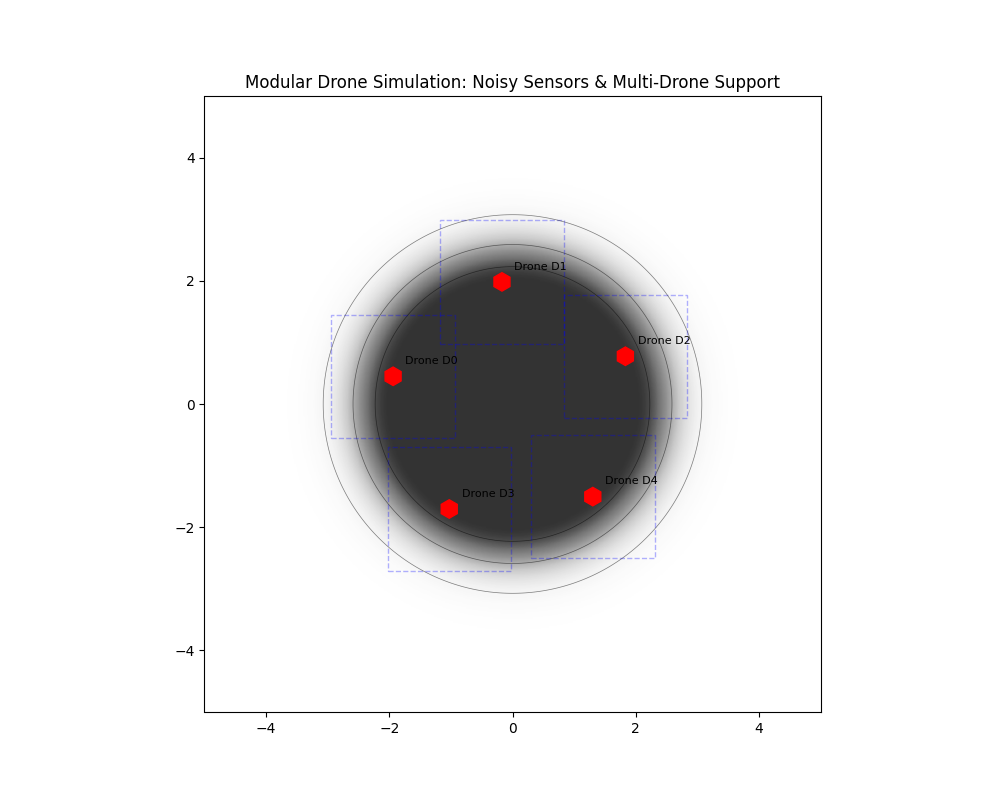
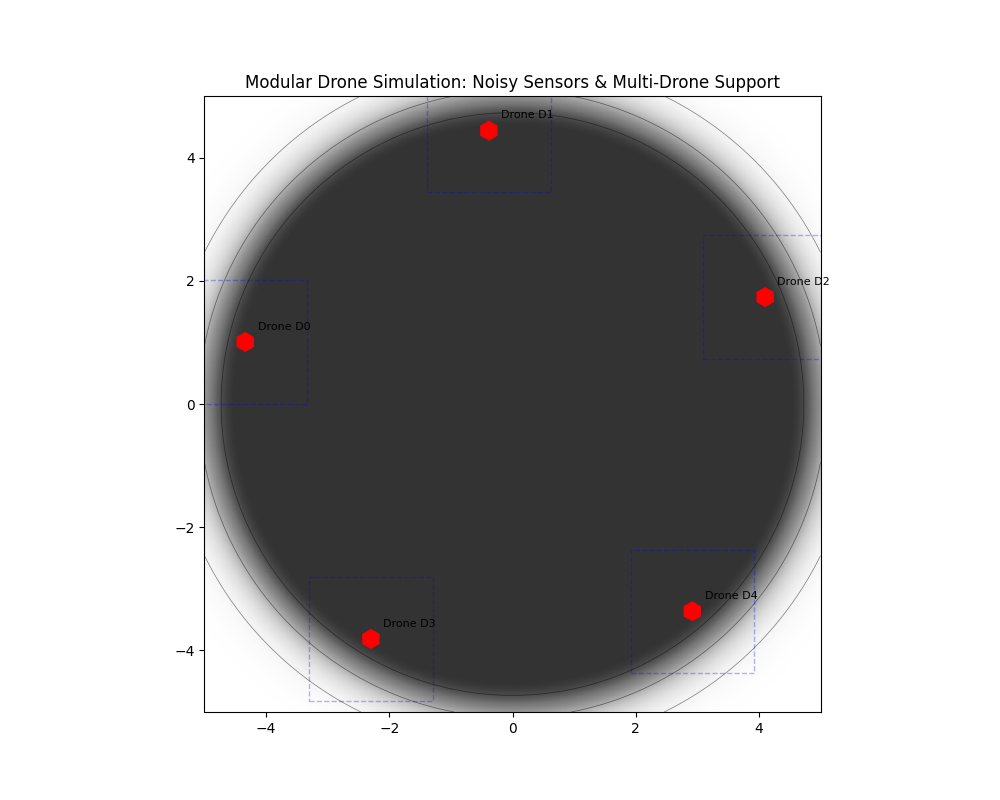
Salvataggio iniziale: dynamic circle con voronoi e control law

diff --git a/main.py b/main.py
@@ -10,13 +10,14 @@ from simulation_engine import SimulationEngine
 from visualization import Visualizer
 
 
-def run_multi_drone_simulation(visualize=False, max_frames=5000, seed=42, show_voronoi=False):
+def run_multi_drone_simulation(visualize=False, max_frames=5000, seed=42, show_voronoi=False, spill_growth=0.035):
     np.random.seed(seed)
     random.seed(seed)
     print(f"Random seed: {seed}")
+    print(f"Spill growth rate: {spill_growth:.6f} radius units/s")
 
     sim_map = SimulationMap(xlim=(-5, 5), ylim=(-5, 5), grid_size=500)
-    spill = CircleOilSpill(x0=0.0, y0=0.0)
+    spill = CircleOilSpill(x0=0.0, y0=0.0, growth_rate=spill_growth)
 
     engine = SimulationEngine(
         sim_map,
@@ -75,7 +76,8 @@ def run_multi_drone_simulation(visualize=False, max_frames=5000, seed=42, show_v
     for drone_id, history in engine.estimates_history.items():
         ax.plot(frames, history["r0_consensus"], label=drone_id, linewidth=2, alpha=0.75)
 
-    ax.axhline(y=spill.r0, color="black", linestyle="--", linewidth=2.5, label="True r0")
+    true_r0_ref = getattr(spill, "initial_r0", spill.r0)
+    ax.axhline(y=true_r0_ref, color="black", linestyle="--", linewidth=2.5, label="Initial true r0")
 
     final_r0 = [engine.estimates_history[f"D{i}"]["r0_post"][-1] for i in range(len(engine.drones))]
     mean_r0 = np.mean(final_r0)
@@ -110,6 +112,7 @@ if __name__ == "__main__":
     parser.add_argument("--frames", type=int, default=5000, help="Total number of simulation frames")
     parser.add_argument("--seed", type=int, default=1, help="Random seed")
     parser.add_argument("--show-voronoi", action="store_true", help="Show real-time Voronoi arc plot")
+    parser.add_argument("--spill-growth", type=float, default=0.001, help="Oil spill radius growth rate (units/s)")
     args = parser.parse_args()
 
     if not args.visualize:
@@ -120,4 +123,5 @@ if __name__ == "__main__":
         max_frames=args.frames,
         seed=args.seed,
         show_voronoi=args.show_voronoi,
+        spill_growth=args.spill_growth,
     )

diff --git a/environment.py b/environment.py
@@ -6,12 +6,21 @@ class OilSpill:
         raise NotImplementedError
 
 class CircleOilSpill(OilSpill):
-    """Circular oil spill at (x0, y0) with radius r0, now softened with Gaussian."""
-    def __init__(self, x0=0, y0=0, r0=2, sigma=0.5):
+    """Circular oil spill at (x0, y0) with radius r0, optionally growing over time."""
+    def __init__(self, x0=0, y0=0, r0=2, sigma=0.5, growth_rate=0.0, max_r0=None):
         self.x0 = x0
         self.y0 = y0
         self.r0 = r0
+        self.initial_r0 = r0
         self.sigma = sigma
+        self.growth_rate = growth_rate
+        self.max_r0 = max_r0
+
+    def update(self, dt):
+        """Advance spill radius in time with a constant growth rate."""
+        self.r0 += self.growth_rate * dt
+        if self.max_r0 is not None:
+            self.r0 = min(self.r0, self.max_r0)
 
     def field(self, X, Y):
         dist = np.sqrt((X - self.x0)**2 + (Y - self.y0)**2)

diff --git a/visualization.py b/visualization.py
@@ -51,7 +51,23 @@ class Visualizer:
         self.texts[drone.drone_id] = label
 
     def render(self, drones):
+        # Refresh field to reflect dynamic spill radius over time
+        field_data = self.oil_spill.field(self.sim_map.X, self.sim_map.Y)
+        self.img.set_data(field_data)
+
+        # Recompute contours for updated spill geometry
+        if hasattr(self.contour, 'collections'):
+            for c in self.contour.collections:
+                c.remove()
+        else:
+            self.contour.remove()
+        self.contour = self.ax.contour(
+            self.sim_map.X, self.sim_map.Y, field_data, levels=[0.1, 0.5, 0.9],
+            colors='black', alpha=0.5, linewidths=0.5
+        )
+
         for drone in drones:
             self.update_drone(drone)
-        plt.draw()
+        self.fig.canvas.draw_idle()
+        self.fig.canvas.flush_events()
         plt.pause(0.001)

diff --git a/simulation_engine.py b/simulation_engine.py
@@ -15,7 +15,7 @@ class SimulationEngine:
         self.drones = []
         self.frame = 0
 
-        # Static spill parameters (center known, radius unknown)
+        # Spill parameters (center known, radius can be time-varying)
         self.true_x0 = oil_spill.x0
         self.true_y0 = oil_spill.y0
         self.true_r0 = oil_spill.r0
@@ -204,6 +204,12 @@ class SimulationEngine:
         then Voronoi + radial/tangential control law.
         """
         self.frame += 1
+
+        # Update true spill radius over time (if the spill model supports dynamics)
+        if hasattr(self.oil_spill, "update"):
+            self.oil_spill.update(self.dt)
+            self.true_r0 = self.oil_spill.r0
+            self.world_field = self.oil_spill.field(self.sim_map.X, self.sim_map.Y)
 
         # 0) Local measurement update (keep existing measurement logic)
         for d in self.drones:
